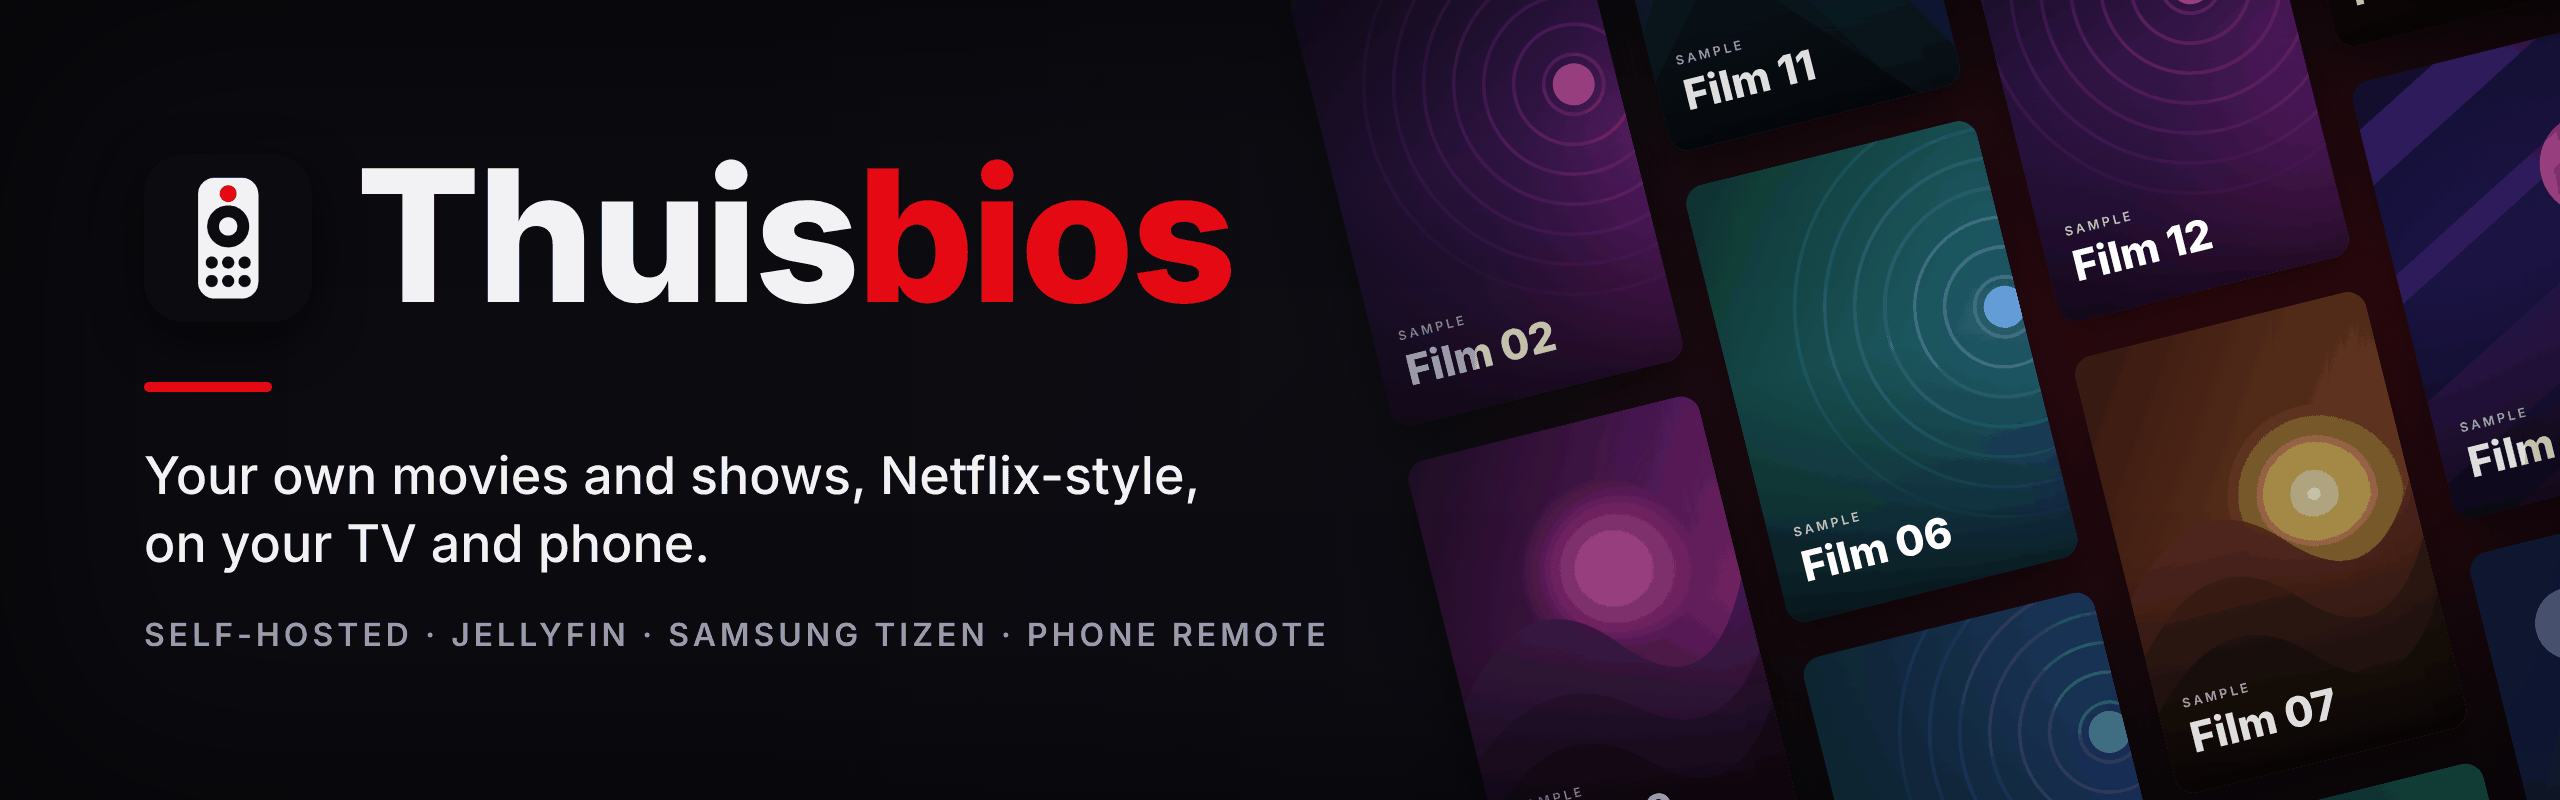
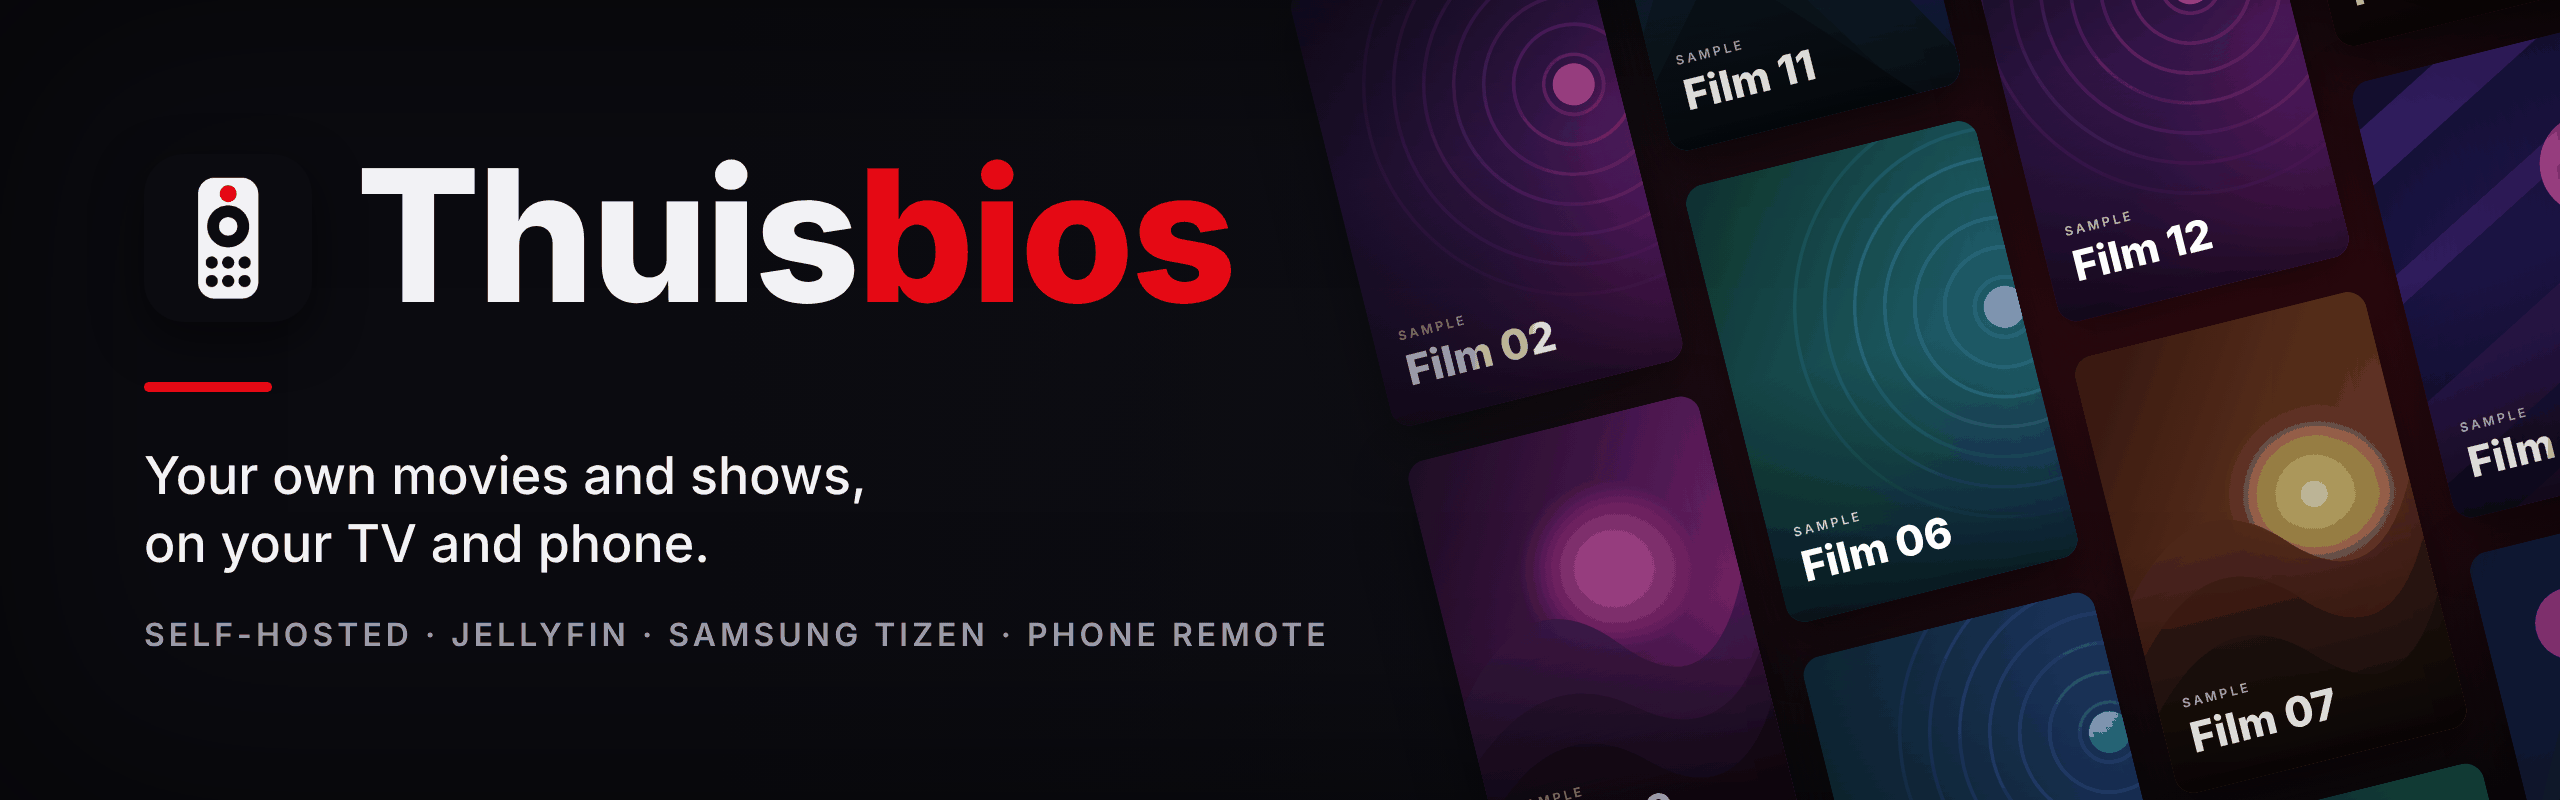
docs: remove references to other streaming products

diff --git a/apps/remote/src/components/PlayerControls.tsx b/apps/remote/src/components/PlayerControls.tsx
@@ -30,7 +30,7 @@ interface Props {
   onInteract(): void;
 }
 
-/** Netflix-like overlay: top bar, centre buttons and a bottom bar with the scrub bar and subtitle picker. */
+/** Streaming-style overlay: top bar, centre buttons and a bottom bar with the scrub bar and subtitle picker. */
 export function PlayerControls(p: Props) {
   const [panel, setPanel] = useState(false);
   // While dragging: the time under the finger. The video only seeks on release.

diff --git a/apps/tv/src/nav/focusGrid.ts b/apps/tv/src/nav/focusGrid.ts
@@ -3,7 +3,7 @@ import type { Direction } from './spatial';
 /**
  * Pure focus-grid logic shared by the home and details screens. The screen is a list of rows, each
  * with a number of items; focus is a (row, col) pair and every row remembers the column it was
- * left at (Netflix behaviour). Rows with 0 items are skipped.
+ * left at (like most streaming apps). Rows with 0 items are skipped.
  */
 export interface GridState {
   row: number;

diff --git a/scripts/screenshots/banner.html b/scripts/screenshots/banner.html
@@ -46,7 +46,7 @@
       <h1>Thuis<span>bios</span></h1>
     </div>
     <div class="bar"></div>
-    <p class="tagline">Your own movies and shows, Netflix-style, on your TV and phone.</p>
+    <p class="tagline">Your own movies and shows,<br>on your TV and phone.</p>
     <p class="sub">Self-hosted · Jellyfin · Samsung Tizen · Phone remote</p>
   </div>
 </div>

diff --git a/docs/plan.md b/docs/plan.md
@@ -15,7 +15,7 @@ Status: v1.1, updated with Pepijn's answers, 2026-10-19. No code yet.
 | Part | What it is | Runs on |
 |---|---|---|
 | **Media server** | Jellyfin: library scanning, metadata/artwork, users, watch progress, streaming and transcoding | Your PC (PoC) |
-| **TV app** | Custom Netflix-style web app for Tizen, talking to the Jellyfin API | Samsung UE49NU7100 |
+| **TV app** | Custom streaming-style web app for Tizen, talking to the Jellyfin API | Samsung UE49NU7100 |
 | **Phone remote** | Search, browse, "play on TV", play/pause/seek/next/prev, volume | iPhone and Android |
 
 Key idea: **Jellyfin is the backend.** It already has users, progress tracking, search, image resizing, transcoding and a remote-control (sessions) API. For the PoC we write no custom server code; we only write two clients. A small ASP.NET Core service can come later if Jellyfin ever falls short (it fits your C# background).
@@ -33,7 +33,7 @@ The UE49NU7100 is a 2018 model running **Tizen 4.0**. That shapes almost every t
 **Web engine.** Tizen 4.0's browser engine is based on roughly **Chromium 56** (2017).
 
 - Modern JS (optional chaining `?.`, `??`, class fields, top-level await) is **not** supported natively. We write TypeScript and compile down to ES2017 or lower, with a few polyfills.
-- CSS Grid and Flexbox work. `backdrop-filter`, heavy blur, big box-shadows and large animated layers are slow or unsupported; the Netflix "glass" look must be faked with gradients.
+- CSS Grid and Flexbox work. `backdrop-filter`, heavy blur, big box-shadows and large animated layers are slow or unsupported; the frosted "glass" look must be faked with gradients.
 - The CPU and RAM are modest. Rows of posters must be lazy-loaded, images requested at the exact size needed (Jellyfin resizes for us: `?maxWidth=300&quality=80`), and only transforms/opacity animated.
 
 **Video and audio (direct play, no transcoding needed):**
@@ -55,7 +55,7 @@ Reference: the open-source `jellyfin-tizen` app proves Jellyfin works on this ge
 
 **Focus/D-pad navigation** is the core UX problem on a TV. We'll use a spatial navigation library (e.g. `@noriginmedia/norigin-spatial-navigation`, which works with Preact via compat) so arrow keys move focus naturally between rows and cards. Remote keys (Back, Play/Pause, colored keys, media keys) must be registered with `tizen.tvinputdevice`.
 
-**Screens (Netflix-inspired):**
+**Screens (streaming-app style):**
 
 1. **Profile picker** (one Jellyfin user per family member, avatars).
 2. **Home**: big hero banner (backdrop + logo + "Play"), then horizontal rows: Continue Watching, Next Up (series), Recently Added, Movies, Series, per-genre rows.
@@ -125,7 +125,7 @@ Tips for this TV: prefer HEVC or H.264 video, AAC/AC3/E-AC3 audio (add an AC3 tr
 | **2. TV spike** | Prove the platform | Tizen VS Code extension set up, certificate made, a "hello world" app with D-pad focus installed on the TV, and one movie (direct play) + one transcoded file playing via HTML5 video (or AVPlay) |
 | **3. TV MVP** | Usable app | Quick Connect login, profile picker, home rows, detail page, playback with resume and progress reporting |
 | **4. Phone remote MVP** | Phone controls the TV | PWA with search, browse, "Play on TV", play/pause/seek/next/prev, live now-playing view, and volume that reaches the soundbar |
-| **5. Polish** | Feels like Netflix | Series flow (Next Up, auto-next, skip intro), audio/subtitle switching, trickplay thumbnails, transitions, optional Samsung power-on/launch from phone, upload flow, then remote access and the move off the PC |
+| **5. Polish** | Feels polished | Series flow (Next Up, auto-next, skip intro), audio/subtitle switching, trickplay thumbnails, transitions, optional Samsung power-on/launch from phone, upload flow, then remote access and the move off the PC |
 
 Phase 2 is deliberately a spike: it de-risks the TV's old engine and player before we invest in UI.
 

diff --git a/README.md b/README.md
@@ -13,7 +13,7 @@
   <a href="https://developer.samsung.com/smarttv"><img alt="Samsung Tizen 4.0" src="https://img.shields.io/badge/Samsung%20Tizen%204.0-1428A0?logo=samsung&logoColor=white"></a>
 </p>
 
-<p align="center"><strong>A personal, Netflix-like way to stream my own media at home, on top of Jellyfin.</strong></p>
+<p align="center"><strong>Your own movies and shows, on your TV and phone. Self-hosted on Jellyfin.</strong></p>
 
 <p align="center">
   <a href="#screenshots">Screenshots</a> ·
@@ -24,7 +24,7 @@
   <a href="#roadmap">Roadmap</a>
 </p>
 
-Thuisbios ("home cinema") is a personal, Netflix-like way to stream my own media at home.
+Thuisbios ("home cinema") is a personal streaming service for my own media at home.
 [Jellyfin](https://jellyfin.org) is the backend. Two custom clients are built on top of its API:
 a phone app (PWA) and a Samsung Tizen TV app. The phone app is the main app: you browse, search and
 play with it, on the TV or on the phone itself. The TV app only connects (Quick Connect code and QR),
@@ -123,7 +123,7 @@ the account and shows a screensaver. It does not ask for a server address. It im
 Jellyfin Quick Connect code (6 digits) and a QR code; once the phone approves the code, the TV signs
 in and shows a slideshow of the library. You pick and play things on the phone, and the TV plays them
 through the Jellyfin sessions API. The old TV home rows, Movies, Shows and sidebar are removed. The
-player is a Netflix-style HTML5 player (Jellyfin device profile, `?debug` overlay) with text
+player is a full-screen HTML5 player (Jellyfin device profile, `?debug` overlay) with text
 subtitles. In the TV browser, Return while in full screen only leaves full screen, so the app asks
 for full screen again, and the "Press OK to continue in full screen" modal is handled with OK. Installing
 (sideloading) a packaged app is refused by this TV's firmware, so the app runs in the TV's built-in

diff --git a/CLAUDE.md b/CLAUDE.md
@@ -1,6 +1,6 @@
 # Instructions for AI sessions
 
-Thuisbios: personal Netflix-like streaming on top of Jellyfin. Read [README.md](README.md) and
+Thuisbios: personal streaming service on top of Jellyfin. Read [README.md](README.md) and
 [docs/plan.md](docs/plan.md) first.
 
 ## Working model
